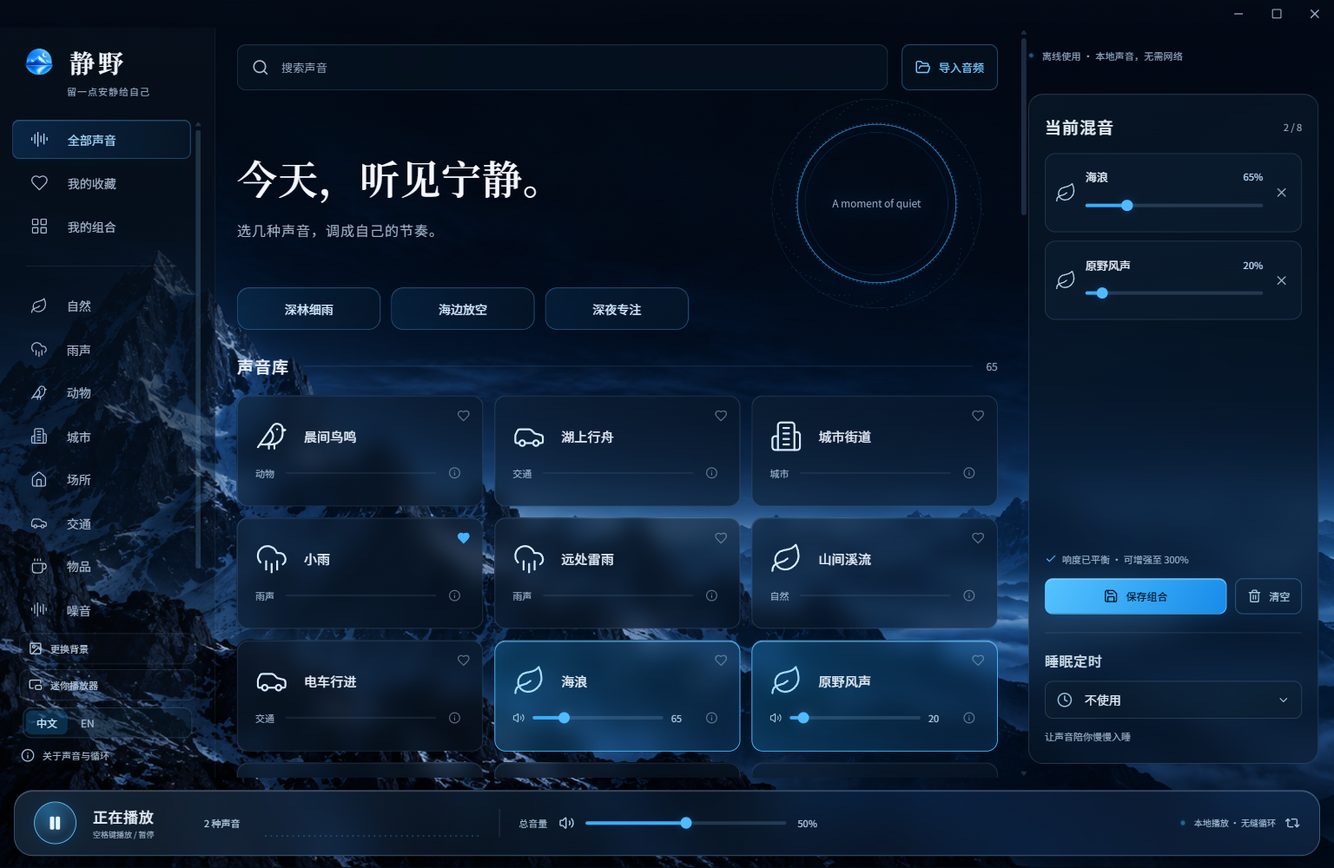
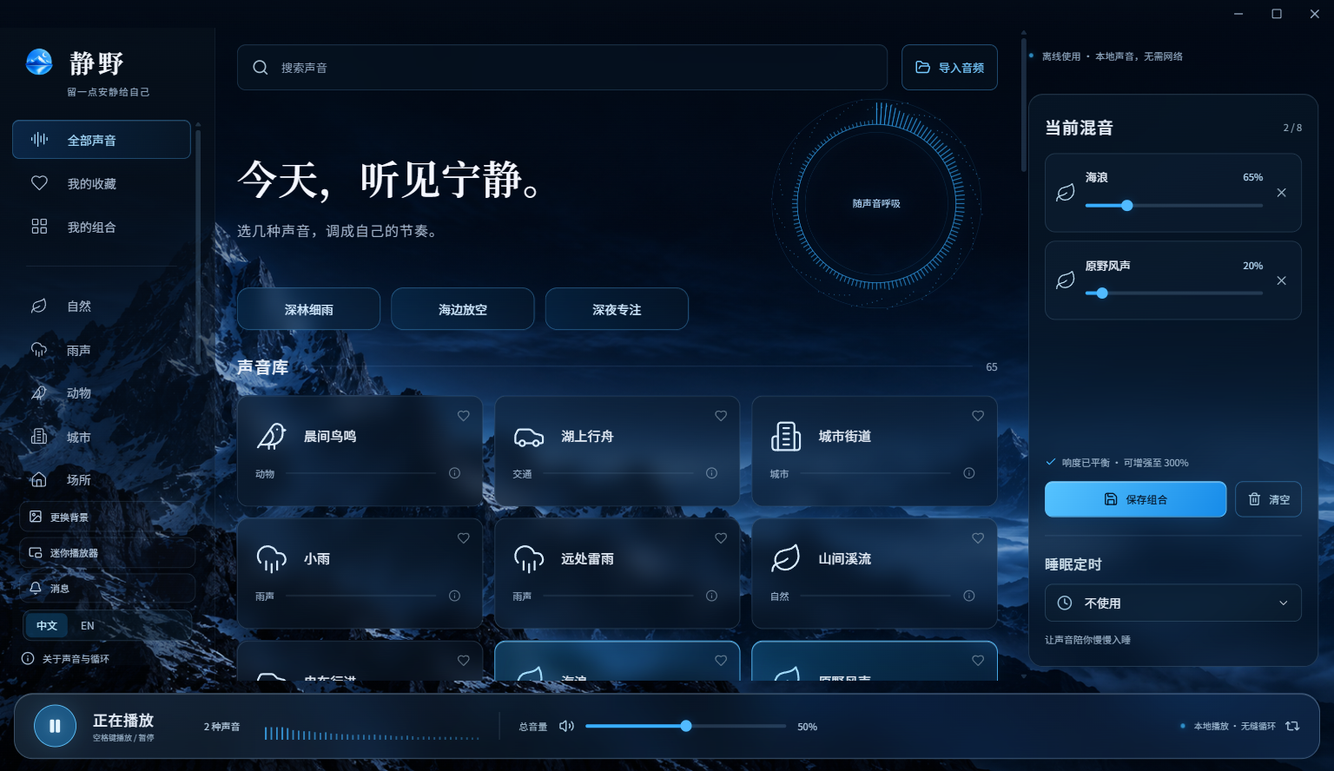
Publish 1.6.1 website, fresh screenshots and Star support link

diff --git a/site/zh-CN/index.html b/site/zh-CN/index.html
@@ -1,14 +1,14 @@
 <!doctype html>
-<html lang="zh-CN"><head><meta charset="utf-8"><meta name="viewport" content="width=device-width, initial-scale=1"><title>静野 Quiet Field — 免费离线白噪声与环境音</title><meta name="description" content="53 种内置声音，自由混合、保存方案、离线播放。静野是免费开源的 Windows 白噪声与环境音软件，支持导入和中英文界面。"><meta name="theme-color" content="#071220"><link rel="canonical" href="https://gary06868.github.io/QuietField/zh-CN/"><link rel="alternate" hreflang="en" href="https://gary06868.github.io/QuietField/"><link rel="alternate" hreflang="zh-CN" href="https://gary06868.github.io/QuietField/zh-CN/"><link rel="alternate" hreflang="x-default" href="https://gary06868.github.io/QuietField/"><meta property="og:type" content="website"><meta property="og:title" content="静野 Quiet Field — 免费离线白噪声与环境音"><meta property="og:description" content="53 种内置声音，自由混合、保存方案、离线播放。静野是免费开源的 Windows 白噪声与环境音软件，支持导入和中英文界面。"><meta property="og:url" content="https://gary06868.github.io/QuietField/zh-CN/"><meta property="og:image" content="https://gary06868.github.io/QuietField/assets/desktop-zh-CN.png"><meta name="twitter:card" content="summary_large_image"><link rel="icon" href="../assets/icon.png"><link rel="stylesheet" href="../style.css"><script type="application/ld+json">{"@context": "https://schema.org", "@type": "SoftwareApplication", "name": "Quiet Field", "applicationCategory": "MultimediaApplication", "operatingSystem": "Windows x64", "softwareVersion": "1.5.0", "offers": {"@type": "Offer", "price": "0", "priceCurrency": "USD"}, "url": "https://gary06868.github.io/QuietField/zh-CN/", "downloadUrl": "https://github.com/Gary06868/QuietField/releases/download/v1.5.0/QuietField-1.5.0-Windows-x64-public.zip", "inLanguage": ["en", "zh-CN"]}</script><script src="../app.js" defer></script></head>
+<html lang="zh-CN"><head><meta charset="utf-8"><meta name="viewport" content="width=device-width, initial-scale=1"><title>静野 Quiet Field — 免费离线白噪声与环境音</title><meta name="description" content="65 种内置声音，自由混合、保存方案、离线播放。静野是免费开源的 Windows 白噪声与环境音软件，支持导入和中英文界面。"><meta name="theme-color" content="#071220"><link rel="canonical" href="https://gary06868.github.io/QuietField/zh-CN/"><link rel="alternate" hreflang="en" href="https://gary06868.github.io/QuietField/"><link rel="alternate" hreflang="zh-CN" href="https://gary06868.github.io/QuietField/zh-CN/"><link rel="alternate" hreflang="x-default" href="https://gary06868.github.io/QuietField/"><meta property="og:type" content="website"><meta property="og:title" content="静野 Quiet Field — 免费离线白噪声与环境音"><meta property="og:description" content="65 种内置声音，自由混合、保存方案、离线播放。静野是免费开源的 Windows 白噪声与环境音软件，支持导入和中英文界面。"><meta property="og:url" content="https://gary06868.github.io/QuietField/zh-CN/"><meta property="og:image" content="https://gary06868.github.io/QuietField/assets/desktop-zh-CN.png"><meta name="twitter:card" content="summary_large_image"><link rel="icon" href="../assets/icon.png"><link rel="stylesheet" href="../style.css"><script type="application/ld+json">{"@context": "https://schema.org", "@type": "SoftwareApplication", "name": "Quiet Field", "applicationCategory": "MultimediaApplication", "operatingSystem": "Windows x64", "softwareVersion": "1.6.1", "offers": {"@type": "Offer", "price": "0", "priceCurrency": "USD"}, "url": "https://gary06868.github.io/QuietField/zh-CN/", "downloadUrl": "https://github.com/Gary06868/QuietField/releases/download/v1.6.1/QuietField-1.6.1-Windows-x64-public.zip", "inLanguage": ["en", "zh-CN"]}</script><script src="../app.js" defer></script></head>
 <body data-play="播放" data-pause="暂停" data-loading="载入中" data-error="播放失败，请重试。">
 <a class="skip" href="#main">跳到正文</a>
 <div class="hero-scene"><header class="wrap"><a class="brand" href="https://gary06868.github.io/QuietField/zh-CN/"><img src="../assets/icon.png" alt="" width="38" height="38">静野 · Quiet Field</a><nav aria-label="Navigation"><a href="#app">认识静野</a><a href="https://github.com/Gary06868/QuietField">GitHub ↗</a><a class="language" href="../zh-CN/" lang="zh-CN" hreflang="zh-CN">中文</a><a class="language" href="../" lang="en" hreflang="en">EN</a></nav></header>
-<main id="main"><section class="hero wrap"><div class="hero-copy"><p class="eyebrow">留一点安静给自己</p><h1>给宁静，<br>留一点空间。</h1><p class="intro">把喜欢的风景，放进耳机。53 种声音自由搭配，保存自己的方案，随时离线聆听。</p><div class="actions"><a class="button primary" href="https://github.com/Gary06868/QuietField/releases/download/v1.5.0/QuietField-1.5.0-Windows-x64-public.zip">下载 Windows 版 <span aria-hidden="true">↓</span></a><a class="listen-link" href="#listen">先听一听 <span aria-hidden="true">↗</span></a></div></div>
+<main id="main"><section class="hero wrap"><div class="hero-copy"><p class="eyebrow">留一点安静给自己</p><h1>给宁静，<br>留一点空间。</h1><p class="intro">把喜欢的风景，放进耳机。65 种声音自由搭配，保存自己的方案，随时离线聆听。</p><div class="actions"><a class="button primary" href="https://github.com/Gary06868/QuietField/releases/download/v1.6.1/QuietField-1.6.1-Windows-x64-public.zip">下载 Windows 版 <span aria-hidden="true">↓</span></a><a class="star-support" href="https://github.com/Gary06868/QuietField" target="_blank" rel="noopener noreferrer"><span aria-hidden="true">☆</span><span>喜欢静野？帮作者点个 Star<br><small>前往 GitHub 仓库支持一下 ↗</small></span></a><a class="listen-link" href="#listen">先听一听 <span aria-hidden="true">↗</span></a></div></div>
 <div class="preview" id="listen"><h2>先听见，一点宁静。</h2><p class="preview-note">20 秒试听 · 两款混音与一段山间溪流</p><div class="sample"><button type="button" class="sample-play" aria-label="播放 深林细雨" aria-pressed="false" data-name="深林细雨"><span class="play-mark" aria-hidden="true">▶</span><span class="sr-only">播放</span></button><span class="sample-name">深林细雨</span><span class="wave" aria-hidden="true"><i style="--h:20%"></i><i style="--h:35%"></i><i style="--h:60%"></i><i style="--h:43%"></i><i style="--h:75%"></i><i style="--h:90%"></i><i style="--h:50%"></i><i style="--h:70%"></i><i style="--h:40%"></i><i style="--h:62%"></i><i style="--h:80%"></i><i style="--h:35%"></i><i style="--h:55%"></i><i style="--h:28%"></i><i style="--h:47%"></i><i style="--h:65%"></i><i style="--h:33%"></i><i style="--h:19%"></i></span><span class="seconds">0:20</span><audio preload="none" src="../assets/forest-rain.ogg"></audio></div><div class="sample"><button type="button" class="sample-play" aria-label="播放 海边放空" aria-pressed="false" data-name="海边放空"><span class="play-mark" aria-hidden="true">▶</span><span class="sr-only">播放</span></button><span class="sample-name">海边放空</span><span class="wave" aria-hidden="true"><i style="--h:20%"></i><i style="--h:35%"></i><i style="--h:60%"></i><i style="--h:43%"></i><i style="--h:75%"></i><i style="--h:90%"></i><i style="--h:50%"></i><i style="--h:70%"></i><i style="--h:40%"></i><i style="--h:62%"></i><i style="--h:80%"></i><i style="--h:35%"></i><i style="--h:55%"></i><i style="--h:28%"></i><i style="--h:47%"></i><i style="--h:65%"></i><i style="--h:33%"></i><i style="--h:19%"></i></span><span class="seconds">0:20</span><audio preload="none" src="../assets/ocean-escape.ogg"></audio></div><div class="sample"><button type="button" class="sample-play" aria-label="播放 山间溪流" aria-pressed="false" data-name="山间溪流"><span class="play-mark" aria-hidden="true">▶</span><span class="sr-only">播放</span></button><span class="sample-name">山间溪流</span><span class="wave" aria-hidden="true"><i style="--h:20%"></i><i style="--h:35%"></i><i style="--h:60%"></i><i style="--h:43%"></i><i style="--h:75%"></i><i style="--h:90%"></i><i style="--h:50%"></i><i style="--h:70%"></i><i style="--h:40%"></i><i style="--h:62%"></i><i style="--h:80%"></i><i style="--h:35%"></i><i style="--h:55%"></i><i style="--h:28%"></i><i style="--h:47%"></i><i style="--h:65%"></i><i style="--h:33%"></i><i style="--h:19%"></i></span><span class="seconds">0:20</span><audio preload="none" src="../assets/mountain-stream.ogg"></audio></div><p class="play-error" role="status" aria-live="polite"></p><a class="credits-link" href="#credits">试听音源署名 ↗</a></div></section></main>
 </div>
-<div class="facts wrap"><span>免费 · 开源 · 无广告</span><span>Windows x64 · v1.5.0</span><span>全部声音随包提供 · 约 832 MB</span></div>
-<section class="showcase wrap" id="app"><h2>调出属于你的声音。</h2><p>一点海浪，一点风。调整每一层的音量，再把喜欢的组合留到下次。</p><figure><a href="../assets/desktop-zh-CN.png" aria-label="静野桌面应用，正在混合播放海浪和原野风声"><img class="screenshot" src="../assets/desktop-zh-CN.png" width="1536" height="1000" alt="静野桌面应用，正在混合播放海浪和原野风声" loading="lazy"></a><figcaption>实际运行截图 · 支持中文和 English 界面</figcaption></figure></section>
-<section class="features wrap"><div class="library-feature"><span class="big-number">53<span>种声音</span></span><div><h2>喜欢的声音，就在这里。</h2><p>53 种声音，覆盖雨、森林、海浪、日常空间与三种噪声。所有录音已经打包，断网也能听。</p><a href="https://github.com/Gary06868/QuietField/blob/main/docs/audio-library.md">53 种声音与完整署名 ↗</a></div></div><div class="feature-row"><article><span class="feature-symbol" aria-hidden="true">∞</span><h2>让这一刻，自然延续。</h2><p>循环边界交叉淡化，减少突兀重启。最多混合 8 种声音，平衡每一路音量，再用睡眠定时轻轻收尾。</p></article><article><span class="feature-symbol" aria-hidden="true">01 / 08</span><h2>按你的习惯，留住宁静。</h2><p>导入自己的录音，收藏喜欢的声音，保存命名方案。不需要账号，没有广告，应用不采集使用数据。</p></article></div></section>
-<section class="faq wrap"><h2>开始之前，想知道的。</h2><details><summary>下载之后怎么运行？</summary><p>下载 ZIP 后完整解压，打开 QuietField-win32-x64/静野.exe 即可。请保留同目录所有文件，不需要安装或注册账号。</p></details><details><summary>支持哪些设备？</summary><p>目前提供 Windows x64 版本；macOS、Linux、Android 和 iOS 暂无发行包。程序未签名，Windows 可能出现信誉提示，请从官方 GitHub 发布页下载。</p></details><details><summary>为什么安装包约 832 MB？</summary><p>完整声音库随包提供，很多是原始未压缩 WAV。网页只提供简短的压缩试听，桌面程序包含完整录音，使用时无需联网。</p></details><details><summary>升级后保存的方案还在吗？</summary><p>把新版本解压到新文件夹，保留 %APPDATA%/QuietField-Public 中的本地数据即可。中英文切换不打断播放。暂不支持云同步。</p></details><details><summary>可以推荐声音或反馈问题吗？</summary><p>当然。可以用中文或英文提交 GitHub issue。问题反馈请附 Windows 版本与复现步骤；推荐音源请附原始页面及许可。</p></details></section>
+<div class="facts wrap"><span>免费 · 开源 · 无广告</span><span>Windows x64 · v1.6.1</span><span>全部声音随包提供 · 约 1.27 GB</span></div>
+<section class="showcase wrap" id="app"><h2>调出属于你的声音。</h2><p>一点海浪，一点风。调整每一层的音量，再把喜欢的组合留到下次。</p><figure><a href="../assets/desktop-zh-CN.png" aria-label="静野桌面应用，正在混合播放海浪和原野风声"><img class="screenshot" src="../assets/desktop-zh-CN.png" width="1536" height="960" alt="静野桌面应用，正在混合播放海浪和原野风声" loading="lazy"></a><figcaption>实际运行截图 · 支持中文和 English 界面</figcaption></figure></section>
+<section class="features wrap"><div class="library-feature"><span class="big-number">65<span>种声音</span></span><div><h2>喜欢的声音，就在这里。</h2><p>65 种声音，覆盖雨、森林、海浪、日常空间与三种噪声。所有录音已经打包，断网也能听。</p><a href="https://github.com/Gary06868/QuietField/blob/main/docs/audio-library.md">65 种声音与完整署名 ↗</a></div></div><div class="feature-row"><article><span class="feature-symbol" aria-hidden="true">∞</span><h2>让这一刻，自然延续。</h2><p>循环边界交叉淡化，减少突兀重启。最多混合 8 种声音，平衡每一路音量，再用睡眠定时轻轻收尾。</p></article><article><span class="feature-symbol" aria-hidden="true">01 / 08</span><h2>按你的习惯，留住宁静。</h2><p>导入自己的录音，收藏喜欢的声音，保存命名方案。不需要账号，没有广告，应用不采集使用数据。</p></article></div><div class="feature-row release-features"><article><span class="feature-symbol" aria-hidden="true">↗</span><h2>收小窗口，继续听。</h2><p>迷你播放器、可选置顶和托盘控制，随时调整声音。小窗口也有清晰舒适的布局。</p></article><article><span class="feature-symbol" aria-hidden="true">✧</span><h2>换一片喜欢的风景。</h2><p>8 款背景：雪山、雾林、月下海岸、3 款纯色，以及流动的极光和星海。轻量模式会暂停动画。</p></article></div><p class="release-note">1.6.1 新增安静的更新消息：读过后红点消失，想更新时再更新。没有反复弹窗。</p></section>
+<section class="faq wrap"><h2>开始之前，想知道的。</h2><details><summary>下载之后怎么运行？</summary><p>下载 ZIP 后完整解压，打开 QuietField-win32-x64/静野.exe 即可。请保留同目录所有文件，不需要安装或注册账号。</p></details><details><summary>支持哪些设备？</summary><p>目前提供 Windows x64 版本；macOS、Linux、Android 和 iOS 暂无发行包。程序未签名，Windows 可能出现信誉提示，请从官方 GitHub 发布页下载。</p></details><details><summary>为什么安装包约 1.27 GB？</summary><p>完整声音库随包提供，很多是原始未压缩 WAV。网页只提供简短的压缩试听，桌面程序包含完整录音，使用时无需联网。</p></details><details><summary>升级后保存的方案还在吗？</summary><p>1.5.0 用户请先下载 1.6.1，退出旧版后从新文件夹运行。以后可在“消息”中直接更新；导入音频、收藏、组合和偏好会保留。不要删除 %APPDATA%/QuietField-Public 数据目录。暂不支持云同步。</p></details><details><summary>可以推荐声音或反馈问题吗？</summary><p>当然。可以用中文或英文提交 GitHub issue。问题反馈请附 Windows 版本与复现步骤；推荐音源请附原始页面及许可。</p></details></section>
 <footer class="wrap"><div class="footer-top"><div class="brand"><img src="../assets/icon.png" alt="" width="32" height="32">给日常，留一点安静。</div><a href="https://github.com/Gary06868/QuietField/issues/new/choose">反馈建议 ↗</a><a href="https://github.com/Gary06868/QuietField/blob/main/README.zh-CN.md">源码 ↗</a></div><p>本页面未添加统计脚本，由 GitHub Pages 托管。</p><details id="credits"><summary>试听音源署名</summary><p>使用应用公开声音库制作，经循环衔接、音量平衡、混音与柔和淡入淡出后压缩为网页试听。原始录音与上游编辑者署名如下，音源许可继续适用。完整处理说明： <a href="../assets/preview-credits.json">署名文件</a>.</p><p><strong>深林细雨</strong>: <a href="https://freesound.org/people/alex36917/sounds/524605/">alex36917 — rain ambience</a>；编辑：Porrumentzio · <a href="https://creativecommons.org/licenses/by/4.0/">CC BY 4.0</a> / <a href="https://freesound.org/people/felix.blume/sounds/217506/">felix.blume — wind</a>；编辑：Porrumentzio · <a href="https://creativecommons.org/publicdomain/zero/1.0/">CC0 1.0</a> / <a href="https://freesound.org/people/kvgarlic/sounds/156826/">kvgarlic — birds</a>；编辑：Porrumentzio · <a href="https://creativecommons.org/publicdomain/zero/1.0/">CC0 1.0</a>.</p><p><strong>海边放空</strong>: <a href="https://freesound.org/people/Luftrum/sounds/48412/">Luftrum — oceanwavescrushing.wav</a>；编辑：Porrumentzio · <a href="https://creativecommons.org/licenses/by/4.0/">CC BY 4.0</a> / <a href="https://freesound.org/people/felix.blume/sounds/217506/">felix.blume — wind</a>；编辑：Porrumentzio · <a href="https://creativecommons.org/publicdomain/zero/1.0/">CC0 1.0</a>.</p><p><strong>山间溪流</strong>: <a href="https://freesound.org/people/gluckose/sounds/333987/">gluckose — stream</a> · <a href="https://creativecommons.org/publicdomain/zero/1.0/">CC0 1.0</a>.</p></details></footer>
 </body></html>

diff --git a/site/index.html b/site/index.html
@@ -1,14 +1,14 @@
 <!doctype html>
-<html lang="en"><head><meta charset="utf-8"><meta name="viewport" content="width=device-width, initial-scale=1"><title>Quiet Field — Free offline ambient sounds for Windows</title><meta name="description" content="Find your quiet with 53 built-in sounds. Mix up to 8 layers, save your favorite soundscapes, and listen offline. Free and open source."><meta name="theme-color" content="#071220"><link rel="canonical" href="https://gary06868.github.io/QuietField/"><link rel="alternate" hreflang="en" href="https://gary06868.github.io/QuietField/"><link rel="alternate" hreflang="zh-CN" href="https://gary06868.github.io/QuietField/zh-CN/"><link rel="alternate" hreflang="x-default" href="https://gary06868.github.io/QuietField/"><meta property="og:type" content="website"><meta property="og:title" content="Quiet Field — Free offline ambient sounds for Windows"><meta property="og:description" content="Find your quiet with 53 built-in sounds. Mix up to 8 layers, save your favorite soundscapes, and listen offline. Free and open source."><meta property="og:url" content="https://gary06868.github.io/QuietField/"><meta property="og:image" content="https://gary06868.github.io/QuietField/assets/desktop-en.png"><meta name="twitter:card" content="summary_large_image"><link rel="icon" href="./assets/icon.png"><link rel="stylesheet" href="./style.css"><script type="application/ld+json">{"@context": "https://schema.org", "@type": "SoftwareApplication", "name": "Quiet Field", "applicationCategory": "MultimediaApplication", "operatingSystem": "Windows x64", "softwareVersion": "1.5.0", "offers": {"@type": "Offer", "price": "0", "priceCurrency": "USD"}, "url": "https://gary06868.github.io/QuietField/", "downloadUrl": "https://github.com/Gary06868/QuietField/releases/download/v1.5.0/QuietField-1.5.0-Windows-x64-public.zip", "inLanguage": ["en", "zh-CN"]}</script><script src="./app.js" defer></script></head>
+<html lang="en"><head><meta charset="utf-8"><meta name="viewport" content="width=device-width, initial-scale=1"><title>Quiet Field — Free offline ambient sounds for Windows</title><meta name="description" content="Find your quiet with 65 built-in sounds. Mix up to 8 layers, save your favorite soundscapes, and listen offline. Free and open source."><meta name="theme-color" content="#071220"><link rel="canonical" href="https://gary06868.github.io/QuietField/"><link rel="alternate" hreflang="en" href="https://gary06868.github.io/QuietField/"><link rel="alternate" hreflang="zh-CN" href="https://gary06868.github.io/QuietField/zh-CN/"><link rel="alternate" hreflang="x-default" href="https://gary06868.github.io/QuietField/"><meta property="og:type" content="website"><meta property="og:title" content="Quiet Field — Free offline ambient sounds for Windows"><meta property="og:description" content="Find your quiet with 65 built-in sounds. Mix up to 8 layers, save your favorite soundscapes, and listen offline. Free and open source."><meta property="og:url" content="https://gary06868.github.io/QuietField/"><meta property="og:image" content="https://gary06868.github.io/QuietField/assets/desktop-en.png"><meta name="twitter:card" content="summary_large_image"><link rel="icon" href="./assets/icon.png"><link rel="stylesheet" href="./style.css"><script type="application/ld+json">{"@context": "https://schema.org", "@type": "SoftwareApplication", "name": "Quiet Field", "applicationCategory": "MultimediaApplication", "operatingSystem": "Windows x64", "softwareVersion": "1.6.1", "offers": {"@type": "Offer", "price": "0", "priceCurrency": "USD"}, "url": "https://gary06868.github.io/QuietField/", "downloadUrl": "https://github.com/Gary06868/QuietField/releases/download/v1.6.1/QuietField-1.6.1-Windows-x64-public.zip", "inLanguage": ["en", "zh-CN"]}</script><script src="./app.js" defer></script></head>
 <body data-play="Play" data-pause="Pause" data-loading="Loading" data-error="Could not play. Please try again.">
 <a class="skip" href="#main">Skip to content</a>
 <div class="hero-scene"><header class="wrap"><a class="brand" href="https://gary06868.github.io/QuietField/"><img src="./assets/icon.png" alt="" width="38" height="38">Quiet Field</a><nav aria-label="Navigation"><a href="#app">The app</a><a href="https://github.com/Gary06868/QuietField">GitHub ↗</a><a class="language" href="./zh-CN/" lang="zh-CN" hreflang="zh-CN">中文</a><a class="language" href="./" lang="en" hreflang="en">EN</a></nav></header>
-<main id="main"><section class="hero wrap"><div class="hero-copy"><p class="eyebrow">A little quiet, just for you</p><h1>Make room<br>for quiet.</h1><p class="intro">Your favorite corner of the world, in your headphones. Mix 53 sounds. Save your own escape. Listen offline.</p><div class="actions"><a class="button primary" href="https://github.com/Gary06868/QuietField/releases/download/v1.5.0/QuietField-1.5.0-Windows-x64-public.zip">Download for Windows <span aria-hidden="true">↓</span></a><a class="listen-link" href="#listen">Listen first <span aria-hidden="true">↗</span></a></div></div>
+<main id="main"><section class="hero wrap"><div class="hero-copy"><p class="eyebrow">A little quiet, just for you</p><h1>Make room<br>for quiet.</h1><p class="intro">Your favorite corner of the world, in your headphones. Mix 65 sounds. Save your own escape. Listen offline.</p><div class="actions"><a class="button primary" href="https://github.com/Gary06868/QuietField/releases/download/v1.6.1/QuietField-1.6.1-Windows-x64-public.zip">Download for Windows <span aria-hidden="true">↓</span></a><a class="star-support" href="https://github.com/Gary06868/QuietField" target="_blank" rel="noopener noreferrer"><span aria-hidden="true">☆</span><span>Enjoy Quiet Field? Leave a Star<br><small>Support the project on GitHub ↗</small></span></a><a class="listen-link" href="#listen">Listen first <span aria-hidden="true">↗</span></a></div></div>
 <div class="preview" id="listen"><h2>A moment to listen.</h2><p class="preview-note">20-second previews · two mixes and a mountain stream</p><div class="sample"><button type="button" class="sample-play" aria-label="Play Forest rain" aria-pressed="false" data-name="Forest rain"><span class="play-mark" aria-hidden="true">▶</span><span class="sr-only">Play</span></button><span class="sample-name">Forest rain</span><span class="wave" aria-hidden="true"><i style="--h:20%"></i><i style="--h:35%"></i><i style="--h:60%"></i><i style="--h:43%"></i><i style="--h:75%"></i><i style="--h:90%"></i><i style="--h:50%"></i><i style="--h:70%"></i><i style="--h:40%"></i><i style="--h:62%"></i><i style="--h:80%"></i><i style="--h:35%"></i><i style="--h:55%"></i><i style="--h:28%"></i><i style="--h:47%"></i><i style="--h:65%"></i><i style="--h:33%"></i><i style="--h:19%"></i></span><span class="seconds">0:20</span><audio preload="none" src="./assets/forest-rain.ogg"></audio></div><div class="sample"><button type="button" class="sample-play" aria-label="Play Ocean escape" aria-pressed="false" data-name="Ocean escape"><span class="play-mark" aria-hidden="true">▶</span><span class="sr-only">Play</span></button><span class="sample-name">Ocean escape</span><span class="wave" aria-hidden="true"><i style="--h:20%"></i><i style="--h:35%"></i><i style="--h:60%"></i><i style="--h:43%"></i><i style="--h:75%"></i><i style="--h:90%"></i><i style="--h:50%"></i><i style="--h:70%"></i><i style="--h:40%"></i><i style="--h:62%"></i><i style="--h:80%"></i><i style="--h:35%"></i><i style="--h:55%"></i><i style="--h:28%"></i><i style="--h:47%"></i><i style="--h:65%"></i><i style="--h:33%"></i><i style="--h:19%"></i></span><span class="seconds">0:20</span><audio preload="none" src="./assets/ocean-escape.ogg"></audio></div><div class="sample"><button type="button" class="sample-play" aria-label="Play Mountain stream" aria-pressed="false" data-name="Mountain stream"><span class="play-mark" aria-hidden="true">▶</span><span class="sr-only">Play</span></button><span class="sample-name">Mountain stream</span><span class="wave" aria-hidden="true"><i style="--h:20%"></i><i style="--h:35%"></i><i style="--h:60%"></i><i style="--h:43%"></i><i style="--h:75%"></i><i style="--h:90%"></i><i style="--h:50%"></i><i style="--h:70%"></i><i style="--h:40%"></i><i style="--h:62%"></i><i style="--h:80%"></i><i style="--h:35%"></i><i style="--h:55%"></i><i style="--h:28%"></i><i style="--h:47%"></i><i style="--h:65%"></i><i style="--h:33%"></i><i style="--h:19%"></i></span><span class="seconds">0:20</span><audio preload="none" src="./assets/mountain-stream.ogg"></audio></div><p class="play-error" role="status" aria-live="polite"></p><a class="credits-link" href="#credits">Preview credits ↗</a></div></section></main>
 </div>
-<div class="facts wrap"><span>Free & open source</span><span>Windows x64 · v1.5.0</span><span>All sounds included · about 832 MB</span></div>
-<section class="showcase wrap" id="app"><h2>A soundscape that feels like you.</h2><p>A little ocean. A little wind. Adjust each layer, then save the mix for next time.</p><figure><a href="./assets/desktop-en.png" aria-label="Quiet Field desktop app with ocean waves and wind playing"><img class="screenshot" src="./assets/desktop-en.png" width="1536" height="1000" alt="Quiet Field desktop app with ocean waves and wind playing" loading="lazy"></a><figcaption>Actual app screenshot · English and 简体中文 interfaces</figcaption></figure></section>
-<section class="features wrap"><div class="library-feature"><span class="big-number">53<span>sounds</span></span><div><h2>Everything you need. Already here.</h2><p>53 sounds: rain, forests, ocean waves, everyday spaces and three colors of noise. All bundled, so you can leave the connection behind.</p><a href="https://github.com/Gary06868/QuietField/blob/main/docs/audio-library.en.md">All 53 sounds & credits ↗</a></div></div><div class="feature-row"><article><span class="feature-symbol" aria-hidden="true">∞</span><h2>Keep the mood going.</h2><p>Crossfaded loop boundaries reduce abrupt restarts. Layer up to 8 sounds, balance their levels and let the sleep timer gently fade out.</p></article><article><span class="feature-symbol" aria-hidden="true">01 / 08</span><h2>Make it your own.</h2><p>Import your recordings, favorite sounds and save named mixes. No account. No ads. No telemetry in the app.</p></article></div></section>
-<section class="faq wrap"><h2>Before you settle in.</h2><details><summary>How do I run it?</summary><p>Download the ZIP, extract the entire folder, then open QuietField-win32-x64/静野.exe. 静野 is the Chinese name. Keep all accompanying files together. No installer or account needed.</p></details><details><summary>Which devices are supported?</summary><p>Currently Windows x64. macOS, Linux, Android and iOS builds are not available. The app is unsigned, so Windows may show a reputation warning; use the official GitHub release.</p></details><details><summary>Why is the download about 832 MB?</summary><p>The full library is included, with many original uncompressed WAV recordings. The website plays only short compressed previews; the app works without an internet connection.</p></details><details><summary>Will my saved mixes survive an update?</summary><p>Yes: extract the new version into a new folder and keep your local data in %APPDATA%/QuietField-Public. You can switch between English and Chinese without restarting playback. There is no cloud sync.</p></details><details><summary>Can I suggest a sound or report a problem?</summary><p>Absolutely. Open a GitHub issue in English or Chinese. Include your Windows version and steps for bugs; include the original source and license for recordings.</p></details></section>
+<div class="facts wrap"><span>Free & open source</span><span>Windows x64 · v1.6.1</span><span>All sounds included · about 1.27 GB</span></div>
+<section class="showcase wrap" id="app"><h2>A soundscape that feels like you.</h2><p>A little ocean. A little wind. Adjust each layer, then save the mix for next time.</p><figure><a href="./assets/desktop-en.png" aria-label="Quiet Field desktop app with ocean waves and wind playing"><img class="screenshot" src="./assets/desktop-en.png" width="1536" height="960" alt="Quiet Field desktop app with ocean waves and wind playing" loading="lazy"></a><figcaption>Actual app screenshot · English and 简体中文 interfaces</figcaption></figure></section>
+<section class="features wrap"><div class="library-feature"><span class="big-number">65<span>sounds</span></span><div><h2>Everything you need. Already here.</h2><p>65 sounds: rain, forests, ocean waves, everyday spaces and three colors of noise. All bundled, so you can leave the connection behind.</p><a href="https://github.com/Gary06868/QuietField/blob/main/docs/audio-library.en.md">All 65 sounds & credits ↗</a></div></div><div class="feature-row"><article><span class="feature-symbol" aria-hidden="true">∞</span><h2>Keep the mood going.</h2><p>Crossfaded loop boundaries reduce abrupt restarts. Layer up to 8 sounds, balance their levels and let the sleep timer gently fade out.</p></article><article><span class="feature-symbol" aria-hidden="true">01 / 08</span><h2>Make it your own.</h2><p>Import your recordings, favorite sounds and save named mixes. No account. No ads. No telemetry in the app.</p></article></div><div class="feature-row release-features"><article><span class="feature-symbol" aria-hidden="true">↗</span><h2>Keep your quiet close.</h2><p>A mini player, optional always-on-top and tray controls. A clearer layout for smaller windows, too.</p></article><article><span class="feature-symbol" aria-hidden="true">✧</span><h2>A view to match your mood.</h2><p>8 backgrounds: mountains, forest, moonlit coast, three solid colors, flowing aurora and drifting stars. Light mode pauses motion.</p></article></div><p class="release-note">New in 1.6.1: quiet update messages. Read once to clear the dot, and update when you choose. No repeated pop-ups.</p></section>
+<section class="faq wrap"><h2>Before you settle in.</h2><details><summary>How do I run it?</summary><p>Download the ZIP, extract the entire folder, then open QuietField-win32-x64/静野.exe. 静野 is the Chinese name. Keep all accompanying files together. No installer or account needed.</p></details><details><summary>Which devices are supported?</summary><p>Currently Windows x64. macOS, Linux, Android and iOS builds are not available. The app is unsigned, so Windows may show a reputation warning; use the official GitHub release.</p></details><details><summary>Why is the download about 1.27 GB?</summary><p>The full library is included, with many original uncompressed WAV recordings. The website plays only short compressed previews; the app works without an internet connection.</p></details><details><summary>Will my saved mixes survive an update?</summary><p>Yes. From 1.5.0, download 1.6.1 once, close the old app and run the new folder. Future releases can be installed from Messages. Imports, favorites, saved mixes and preferences are kept. Keep your %APPDATA%/QuietField-Public data folder. There is no cloud sync.</p></details><details><summary>Can I suggest a sound or report a problem?</summary><p>Absolutely. Open a GitHub issue in English or Chinese. Include your Windows version and steps for bugs; include the original source and license for recordings.</p></details></section>
 <footer class="wrap"><div class="footer-top"><div class="brand"><img src="./assets/icon.png" alt="" width="32" height="32">Built for quiet moments.</div><a href="https://github.com/Gary06868/QuietField/issues/new/choose">Feedback ↗</a><a href="https://github.com/Gary06868/QuietField/blob/main/README.md">Source ↗</a></div><p>No added analytics on this page. Hosted by GitHub Pages.</p><details id="credits"><summary>Preview credits</summary><p>Made from the app public sound library: loop crossfades, level adjustment, mixing and gentle fades, then compressed for the web. Original recordings and upstream edits are credited below; source licenses remain applicable. Full processing details: <a href="./assets/preview-credits.json">credits file</a>.</p><p><strong>Forest rain</strong>: <a href="https://freesound.org/people/alex36917/sounds/524605/">alex36917 — rain ambience</a>; edited by Porrumentzio · <a href="https://creativecommons.org/licenses/by/4.0/">CC BY 4.0</a> / <a href="https://freesound.org/people/felix.blume/sounds/217506/">felix.blume — wind</a>; edited by Porrumentzio · <a href="https://creativecommons.org/publicdomain/zero/1.0/">CC0 1.0</a> / <a href="https://freesound.org/people/kvgarlic/sounds/156826/">kvgarlic — birds</a>; edited by Porrumentzio · <a href="https://creativecommons.org/publicdomain/zero/1.0/">CC0 1.0</a>.</p><p><strong>Ocean escape</strong>: <a href="https://freesound.org/people/Luftrum/sounds/48412/">Luftrum — oceanwavescrushing.wav</a>; edited by Porrumentzio · <a href="https://creativecommons.org/licenses/by/4.0/">CC BY 4.0</a> / <a href="https://freesound.org/people/felix.blume/sounds/217506/">felix.blume — wind</a>; edited by Porrumentzio · <a href="https://creativecommons.org/publicdomain/zero/1.0/">CC0 1.0</a>.</p><p><strong>Mountain stream</strong>: <a href="https://freesound.org/people/gluckose/sounds/333987/">gluckose — stream</a> · <a href="https://creativecommons.org/publicdomain/zero/1.0/">CC0 1.0</a>.</p></details></footer>
 </body></html>

diff --git a/site/style.css b/site/style.css
@@ -1,2 +1,4 @@
 /* Native CSS: existing Quiet Field artwork and electric-blue palette. Buttons 12px; player and screenshot 20px. */
 :root{color-scheme:dark;--bg:#071220;--text:#edf4fc;--muted:#afc1d7;--line:#2a3d54;--blue:#58bdff;--ink:#032035}*{box-sizing:border-box}html{scroll-behavior:smooth;scroll-padding-top:24px}body{margin:0;background:var(--bg);color:var(--text);font:16px/1.65 "Segoe UI",system-ui,-apple-system,"PingFang SC","Microsoft YaHei",sans-serif}a{color:inherit;text-decoration:none}button{font:inherit}a:hover{color:var(--blue)}button:focus-visible,a:focus-visible,summary:focus-visible{outline:3px solid var(--blue);outline-offset:5px}a,button,summary{-webkit-tap-highlight-color:transparent}button{cursor:pointer}.wrap{width:min(1180px,calc(100% - 80px));margin-inline:auto}.hero-scene{background:linear-gradient(180deg,#071220 0%,#071220bd 44%,#0712204d 76%,#071220 100%),url("assets/mountains.png") center 58%/cover no-repeat}header{height:84px;display:flex;align-items:center;justify-content:space-between;gap:22px}.brand{font-size:20px;font-weight:650;display:flex;align-items:center;gap:12px;white-space:nowrap}.brand img{object-fit:contain}nav{display:flex;align-items:center;gap:30px;font-size:14px}nav .language{font-size:13px;letter-spacing:.04em}.hero{min-height:570px;display:grid;grid-template-columns:1.2fr 1fr;align-items:center;gap:80px;padding-block:46px 66px}.eyebrow{color:var(--blue);font-size:13px;letter-spacing:.11em;margin:0 0 22px}h1{font:400 clamp(52px,5.8vw,78px)/1.03 Georgia,"Noto Serif SC","Songti SC",serif;letter-spacing:-.045em;margin:0 0 27px}html[lang=zh-CN] h1{font-size:64px;letter-spacing:.01em;line-height:1.22}p{color:var(--muted)}.intro{font-size:18px;max-width:410px;line-height:1.65;margin:0 0 32px}.actions{display:flex;align-items:center;gap:26px}.button{display:inline-flex;align-items:center;justify-content:center;gap:22px;min-height:54px;padding:12px 22px;border-radius:12px;font-size:15px;font-weight:650;white-space:nowrap}.primary{background:var(--blue);color:var(--ink);box-shadow:0 8px 32px #2494ff26}.primary:hover{background:#90d5ff;color:var(--ink)}.button:active,.sample-play:active{transform:scale(.97)}.listen-link{font-size:14px;white-space:nowrap}.preview{background:linear-gradient(145deg,#0e2137e8,#071321ed);border:1px solid #ffffff22;border-radius:20px;padding:28px 28px 20px;box-shadow:0 24px 80px #020a1680;backdrop-filter:blur(14px);scroll-margin-top:32px}.preview h2{font:400 29px/1.25 Georgia,"Songti SC",serif;margin:0 0 8px}.preview-note{font-size:12px;margin:0 0 26px}.sample{display:flex;align-items:center;gap:13px;height:74px;border-top:1px solid var(--line)}.sample-play{border:1px solid #5c8fb680;color:var(--blue);background:#18364a80;border-radius:50%;width:38px;height:38px;flex:0 0 38px;display:grid;place-items:center}.play-mark{font-size:12px;line-height:1}.sample-name{font-size:14px;min-width:0;flex:1}.seconds{font-variant-numeric:tabular-nums;font-size:11px;color:var(--muted)}.wave{display:flex;height:27px;align-items:center;gap:2px;width:61px;flex:0 0 61px}.wave i{display:block;height:var(--h);width:2px;background:#4d86b5;border-radius:2px}.sample.active .wave i{background:var(--blue);animation:breathe .9s ease-in-out infinite alternate}.sample.active .wave i:nth-child(3n){animation-delay:-.6s}.sample.active .wave i:nth-child(2n){animation-delay:-.3s}.sample.active .sample-play{background:var(--blue);color:var(--ink)}.sample-play:disabled{opacity:.65;cursor:wait}.credits-link{display:inline-block;color:var(--muted);font-size:11px;margin-top:15px}.play-error{font-size:13px;color:#ffbabb;margin:0}.play-error:empty{display:none}.facts{display:flex;justify-content:space-between;gap:20px;border-bottom:1px solid var(--line);padding:18px 0 30px;color:var(--muted);font-size:13px}.showcase{padding-top:78px}.showcase h2,.faq>h2{font:400 40px/1.25 Georgia,"Songti SC",serif;letter-spacing:-.02em;margin:0 0 18px}.showcase>p{max-width:580px;margin:0 0 35px}.showcase figure{margin:0}.screenshot{display:block;width:100%;height:auto;border:1px solid #45617c;border-radius:20px;box-shadow:0 25px 80px #0005}.showcase figcaption{text-align:center;color:var(--muted);font-size:12px;margin:18px 0 0}.features{padding-top:80px}.library-feature{display:grid;grid-template-columns:1fr 2fr;gap:60px;padding:38px 0 55px;border-bottom:1px solid var(--line);align-items:center}.big-number{font:400 110px/1 Georgia,serif;color:var(--blue);display:flex;align-items:baseline;gap:16px}.big-number>span{font:14px/1.4 "Segoe UI",sans-serif;color:var(--muted)}.features h2{font:400 28px/1.35 Georgia,"Songti SC",serif;margin:0 0 16px}.features p{max-width:560px;margin:0 0 15px}.features a{font-size:14px;color:var(--blue)}.feature-row{display:grid;grid-template-columns:1fr 1fr;gap:90px;padding:46px 0 60px}.feature-symbol{display:block;color:var(--blue);font:24px/1.4 Georgia,serif;letter-spacing:.05em;margin-bottom:20px}.faq{padding-block:40px 80px;max-width:880px}.faq>h2{margin-bottom:30px}details{border-bottom:1px solid var(--line)}summary{cursor:pointer;padding:19px 0;font-weight:550}details p{margin:0 0 22px;font-size:15px;max-width:74ch}footer{padding:34px 0 36px;border-top:1px solid var(--line)}.footer-top{display:flex;gap:28px;align-items:center;flex-wrap:wrap}.footer-top .brand{flex:1;font-size:17px}.footer-top>a{font-size:14px}footer>p,footer summary,footer details p{font-size:12px}footer details a{color:var(--blue)}footer details{border:0}.skip{position:absolute;top:-90px;left:20px;padding:12px;background:var(--blue);color:var(--ink);z-index:3}.skip:focus{top:8px}.sr-only{position:absolute;width:1px;height:1px;margin:-1px;overflow:hidden;clip:rect(0,0,0,0)}@keyframes breathe{to{transform:scaleY(.42)}}@media(min-width:1000px){header{height:76px}}@media(max-width:1050px){.wrap{width:calc(100% - 56px)}.hero{gap:35px;grid-template-columns:1.15fr 1fr;min-height:540px}h1{font-size:62px}html[lang=zh-CN] h1{font-size:54px}.preview{padding:23px 20px}.preview h2{font-size:26px}.wave{width:41px;flex-basis:41px}.wave i:nth-child(n+14){display:none}.actions{gap:18px}.button{padding:12px 17px;gap:12px}.library-feature{gap:35px}.feature-row{gap:48px}}@media(max-width:760px){.wrap{width:calc(100% - 40px)}header{height:76px}.brand{font-size:16px;gap:7px}.brand img{width:30px;height:30px}nav{gap:17px}nav>a:first-child{display:none}.hero{grid-template-columns:1fr;gap:46px;padding-block:42px;min-height:0}.hero-copy{max-width:530px}h1{font-size:64px}.intro{font-size:17px;max-width:420px}.preview{max-width:530px;width:100%;padding:26px}.wave{width:61px;flex-basis:61px}.wave i:nth-child(n+14){display:block}.facts{flex-wrap:wrap;justify-content:flex-start;gap:10px 22px;padding-bottom:22px;font-size:12px}.showcase{padding-top:48px}.showcase h2,.faq>h2{font-size:31px}.screenshot{border-radius:12px}.features{padding-top:34px}.library-feature{grid-template-columns:1fr;gap:24px;padding-bottom:32px}.big-number{font-size:80px}.feature-row{grid-template-columns:1fr;gap:24px;padding-block:32px}.features h2{font-size:26px}.feature-symbol{margin-bottom:12px}.faq{padding-block:30px 50px}.footer-top .brand{flex-basis:100%}footer{padding-top:25px}}@media(max-width:390px){.wrap{width:calc(100% - 32px)}nav{gap:12px}.brand{font-size:14px}nav>a:nth-child(2){display:none}h1{font-size:57px}html[lang=zh-CN] h1{font-size:47px}.actions{gap:16px}.button{font-size:14px;padding:12px 15px}.listen-link{font-size:13px}.preview{padding:23px 20px}.sample{gap:10px}.sample-name{font-size:13px}}@media(prefers-reduced-motion:reduce){html{scroll-behavior:auto}.wave i{animation:none!important}}@media(prefers-reduced-transparency:reduce){.preview{background:#0c1b2b;backdrop-filter:none}}
+
+.actions{flex-wrap:wrap;gap:18px 22px}.star-support{display:inline-flex;align-items:center;gap:10px;font-size:13px;line-height:1.5;color:#d7e8f8}.star-support>span:first-child{font-size:29px;color:#8fd3ff}.star-support small{font-size:11px;color:var(--muted)}.star-support:hover small{color:var(--blue)}.actions .listen-link{flex-basis:100%}.release-features{border-top:1px solid var(--line);padding-bottom:20px}.release-note{padding-bottom:25px;font-size:14px}

diff --git a/README.md b/README.md
@@ -4,9 +4,7 @@
 
 **English** · [简体中文](README.zh-CN.md)
 
-> The current source targets 1.6.1 with the features below. The published download is still 1.5.0 (53 sounds); 1.6.1 has not been released yet.
-
-[**Download for Windows**](https://github.com/Gary06868/QuietField/releases/download/v1.5.0/QuietField-1.5.0-Windows-x64-public.zip) · [Listen & explore](https://gary06868.github.io/QuietField/) · [Sound library](docs/audio-library.en.md) · [Feedback](https://github.com/Gary06868/QuietField/issues/new/choose)
+[**Download for Windows**](https://github.com/Gary06868/QuietField/releases/download/v1.6.1/QuietField-1.6.1-Windows-x64-public.zip) · [Listen & explore](https://gary06868.github.io/QuietField/) · [Sound library](docs/audio-library.en.md) · [Feedback](https://github.com/Gary06868/QuietField/issues/new/choose)
 
 [![Windows build](https://github.com/Gary06868/QuietField/actions/workflows/build.yml/badge.svg)](https://github.com/Gary06868/QuietField/actions/workflows/build.yml)
 [![Code: MIT](https://img.shields.io/badge/code-MIT-blue)](LICENSE)
@@ -38,11 +36,11 @@ The library includes 44 original PCM WAV recordings from BigSoundBank, including
 
 ## Download & start listening
 
-1. Download **[QuietField-1.5.0-Windows-x64-public.zip](https://github.com/Gary06868/QuietField/releases/download/v1.5.0/QuietField-1.5.0-Windows-x64-public.zip)** (about 832 MB).
+1. Download **[QuietField-1.6.1-Windows-x64-public.zip](https://github.com/Gary06868/QuietField/releases/download/v1.6.1/QuietField-1.6.1-Windows-x64-public.zip)** (about 1.27 GB).
 2. Extract the **whole ZIP** into a folder.
 3. Open `QuietField-win32-x64/静野.exe` (静野 is the app’s Chinese name).
 
-No Node.js, Python, installation wizard or account is needed. Keep the executable with its accompanying files. Checksums are on the [release page](https://github.com/Gary06868/QuietField/releases/tag/v1.5.0). GitHub’s source archives contain code, **not the bundled audio**.
+No Node.js, Python, installation wizard or account is needed. Keep the executable with its accompanying files. Checksums are on the [release page](https://github.com/Gary06868/QuietField/releases/tag/v1.6.1). GitHub’s source archives contain code, **not the bundled audio**.
 
 **Platform:** Windows x64. macOS, Linux and Windows ARM64 builds are not available yet. The app is unsigned, so Windows may show a reputation warning; use this repository’s official releases. Local desktop tests and Windows CI are not a substitute for testing on every PC.
 
@@ -50,7 +48,7 @@ No Node.js, Python, installation wizard or account is needed. Keep the executabl
 
 ## Questions
 
-**Why is the download large?** The current source bundles 62 recordings (50 in published version 1.5.0) so the app works offline. Many are original, uncompressed WAV files. The other 3 sounds are generated noise.
+**Why is the download large?** The app bundles 62 recordings so the app works offline. Many are original, uncompressed WAV files. The other 3 sounds are generated noise.
 
 **Can I use it offline?** Yes. Fonts, artwork and audio are bundled, and the playback interface blocks external HTTP/HTTPS requests. From 1.6.1, the public edition can check this repository’s GitHub Releases at most once a day in the background; disable this in Messages to stop automatic checks. A manual check or update connects to GitHub. No audio, mixes or usage history are uploaded. Optional website previews need a connection and use GitHub Pages hosting; there is no added analytics script.
 

diff --git a/README.zh-CN.md b/README.zh-CN.md
@@ -4,9 +4,7 @@
 
 [English](README.md) · **简体中文**
 
-> 当前源码为 1.6.1 开发版本，包含下列新功能。已发布下载仍为 1.5.0（53 种声音）；1.6.1 尚未发布。
-
-[**下载 Windows 版**](https://github.com/Gary06868/QuietField/releases/download/v1.5.0/QuietField-1.5.0-Windows-x64-public.zip) · [在线试听与介绍](https://gary06868.github.io/QuietField/zh-CN/) · [音源清单](docs/audio-library.md) · [反馈问题](https://github.com/Gary06868/QuietField/issues/new/choose)
+[**下载 Windows 版**](https://github.com/Gary06868/QuietField/releases/download/v1.6.1/QuietField-1.6.1-Windows-x64-public.zip) · [在线试听与介绍](https://gary06868.github.io/QuietField/zh-CN/) · [音源清单](docs/audio-library.md) · [反馈问题](https://github.com/Gary06868/QuietField/issues/new/choose)
 
 [![Windows 构建](https://github.com/Gary06868/QuietField/actions/workflows/build.yml/badge.svg)](https://github.com/Gary06868/QuietField/actions/workflows/build.yml)
 [![代码 MIT](https://img.shields.io/badge/code-MIT-blue)](LICENSE)
@@ -38,11 +36,11 @@
 
 ## 下载与使用
 
-1. 下载 **[QuietField-1.5.0-Windows-x64-public.zip](https://github.com/Gary06868/QuietField/releases/download/v1.5.0/QuietField-1.5.0-Windows-x64-public.zip)**（约 832 MB）。
+1. 下载 **[QuietField-1.6.1-Windows-x64-public.zip](https://github.com/Gary06868/QuietField/releases/download/v1.6.1/QuietField-1.6.1-Windows-x64-public.zip)**（约 1.27 GB）。
 2. **完整解压**整个 ZIP。
 3. 运行 `QuietField-win32-x64/静野.exe`。
 
-不需要 Node.js、Python 或账号。保留程序同目录的其他文件，不要单独移出 EXE。[发布页](https://github.com/Gary06868/QuietField/releases/tag/v1.5.0)有 SHA-256 校验文件。GitHub 自动生成的源码包**不含音频**，开发者需按下面步骤获取音源。
+不需要 Node.js、Python 或账号。保留程序同目录的其他文件，不要单独移出 EXE。[发布页](https://github.com/Gary06868/QuietField/releases/tag/v1.6.1)有 SHA-256 校验文件。GitHub 自动生成的源码包**不含音频**，开发者需按下面步骤获取音源。
 
 目前提供 **Windows x64** 版本；macOS、Linux、Windows ARM64 暂无发行包。程序未代码签名，首次下载可能出现系统信誉提示，请只从此仓库的正式发布页下载。本机测试和 Windows 云端构建不代表所有电脑均已实测。
 
@@ -50,7 +48,7 @@
 
 ## 常见问题
 
-**安装包为什么大？** 当前源码包含 62 段录音（已发布的 1.5.0 为 50 段），很多是未重编码的原始 WAV，所以使用时无需联网。另外 3 种声音由算法生成。
+**安装包为什么大？** 公开版包含 62 段录音，很多是未重编码的原始 WAV，所以使用时无需联网。另外 3 种声音由算法生成。
 
 **真的可以离线用吗？** 可以。字体、图形和声音均已打包，播放界面阻止外部 HTTP/HTTPS 请求。1.6.1 起公开版可每天最多后台连接一次本仓库的 GitHub Releases；在“消息”里关闭自动检查即可停止自动联网。手动检查或更新时会连接 GitHub，不上传音频、组合或使用记录。可选的网页试听需联网，由 GitHub Pages 托管；页面未添加统计脚本。
 

diff --git a/docs/release-1.6.1.md b/docs/release-1.6.1.md
@@ -1,0 +1,35 @@
+# 静野 Quiet Field 1.6.1
+
+免费开源、离线播放的 Windows 环境音混音工具。此版本包含 65 种声音（62 段录音 + 白、粉、棕噪声），所有音源随包提供。
+
+## 从 1.5.0 更新了什么
+- 新增 12 段有明确再分发许可的实录，声音库从 53 种扩充到 65 种。
+- 迷你播放器、可选置顶与托盘控制，收起窗口后继续播放。
+- 8 款可换背景，包括动态极光与星海；轻量模式和系统减少动态效果会暂停动画。
+- 改善小窗口字号、固定侧栏与滚动布局；窄窗口可展开当前混音。
+- 新版提醒改为安静的“消息”：阅读后红点消失，不反复弹窗，可关闭自动检查。
+- Windows x64 公开版支持应用内下载、SHA-256 校验、重启更新与启动失败回退。保留导入音频、收藏、自定义组合、音量和背景偏好。
+
+## 下载与升级
+下载 **QuietField-1.6.1-Windows-x64-public.zip**（约 1.27 GB），完整解压后运行 `QuietField-win32-x64/静野.exe`。
+
+**1.5.0 用户需手动下载这一次**：退出旧版后从新文件夹运行，不要删除 `%APPDATA%/QuietField-Public` 数据目录。后续版本可在“消息”里更新。个人版与公开版数据互相独立。
+
+程序包包含完整音源；Source 压缩包只含代码和静态素材，开发需按 README 下载音源。目前仅提供 Windows x64，程序未代码签名。
+
+[中文介绍与试听](https://gary06868.github.io/QuietField/zh-CN/) · [音源与授权](https://github.com/Gary06868/QuietField/blob/main/docs/audio-library.md)
+
+---
+
+## English
+Quiet Field is a free, open-source, offline ambient sound mixer for Windows.
+
+New since 1.5.0: 12 licensed field recordings (65 sounds total), a mini player and tray controls, 8 backgrounds including aurora and starlight motion, and a clearer compact-window layout. Light mode and system reduced-motion preferences pause background motion.
+
+Updates now wait in **Messages** without pop-ups. Reading clears the dot for that release. Windows x64 public builds can download and verify a new version, restart, and roll back after a failed startup. Imports, favorites, saved mixes and preferences are preserved.
+
+**Upgrading from 1.5.0:** download this release once, extract the whole ZIP, close the old app and run `QuietField-win32-x64/静野.exe`. Keep `%APPDATA%/QuietField-Public`. Future updates can be installed from Messages. The full Windows package is about 1.27 GB; source archives do not include recordings.
+
+Validated with 54 unit tests, packaged bilingual/compact-window checks, and a full local package-upgrade simulation that verified imported audio hashes and saved mixes. Other operating systems and all possible display/audio-device setups have not been validated.
+
+[Explore & listen](https://gary06868.github.io/QuietField/) · [Recording credits](https://github.com/Gary06868/QuietField/blob/main/docs/audio-library.en.md)
